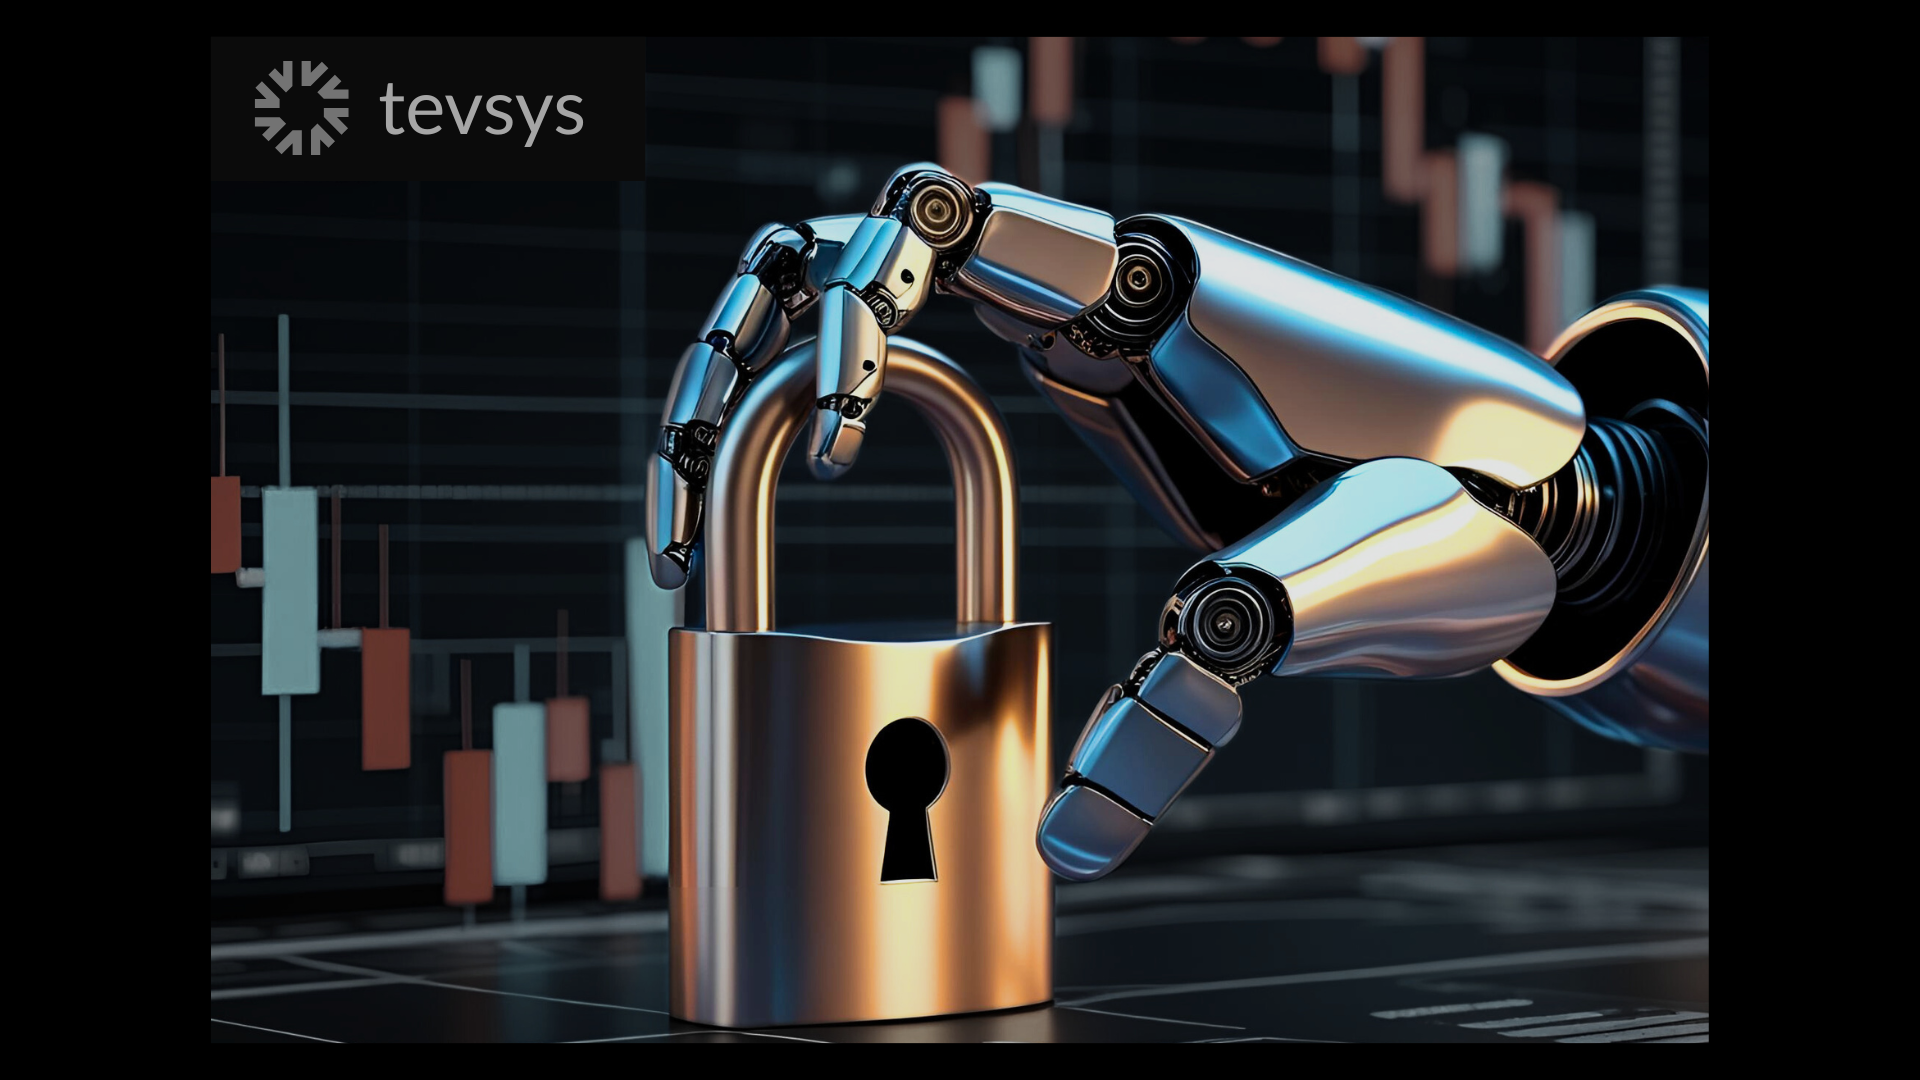
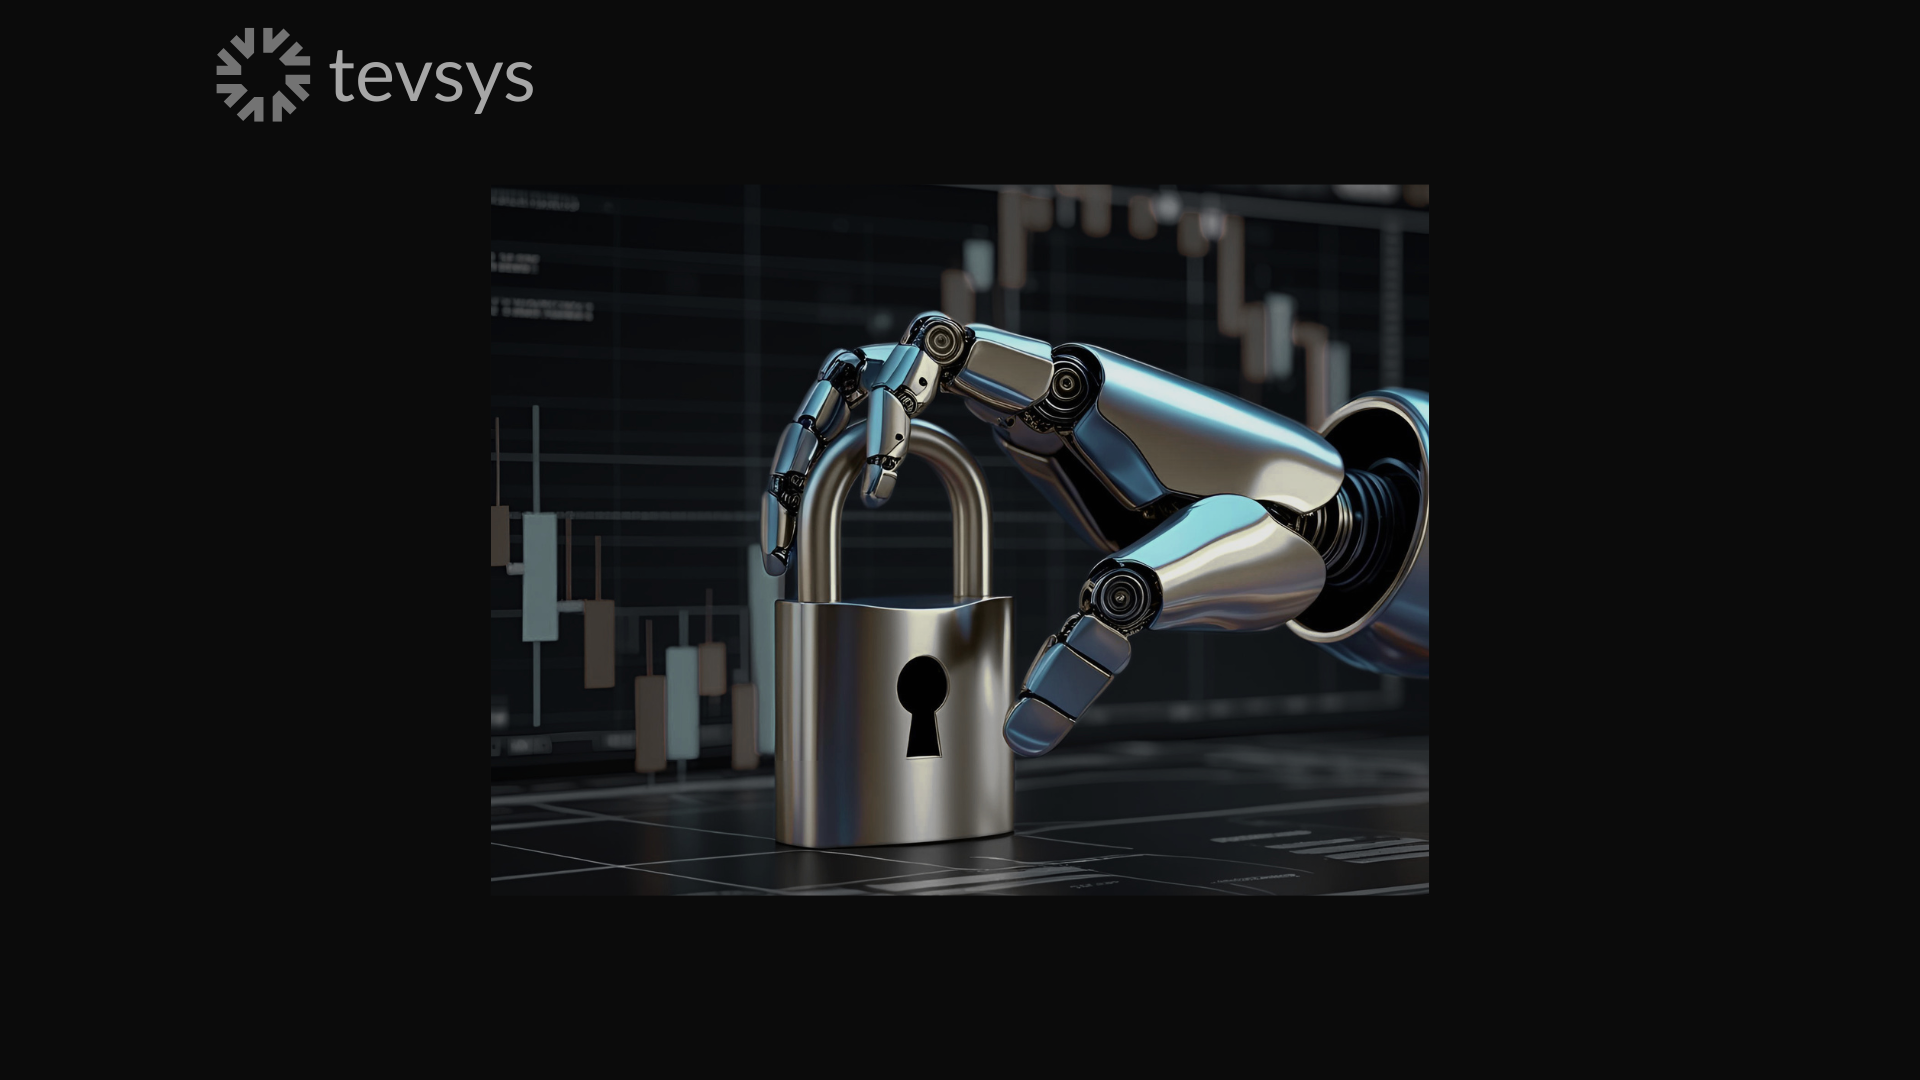
feat(web): hero mano+candado — velas neutras, PNG v2 + preload alineado

diff --git a/docs/CONTENIDO_WEB_TEVSYS_LANDING.md b/docs/CONTENIDO_WEB_TEVSYS_LANDING.md
@@ -35,7 +35,7 @@ Documento de contenido/copy actual para revisión de equipo.
 - **Botón:** `Descargar demo →` (ámbar marca)
 - **Disponibilidad:** `Disponible en MT5 · Próximamente: más plataformas`
 - **Stack home (tema oscuro):** fondo **`#000`** en `.tevsys-home-hero-stack` (coherencia con zona imagen cards); capas KITT sin cambio de filosofía.
-- **Imagen:** mano robótica + candado (`mano robotica central web.png` / WebP). Tratamiento CSS: filtros/viñeta/radio imagen; stack home con viñeta y un solo redondeo exterior (`CHANGELOG` + `HOME_HERO_CARDS_ITERACION_ABR2026.md`).
+- **Imagen:** mano robótica + candado (`mano robotica central web.png`; hero con `?v=2` tras arte velas neutras). Tratamiento CSS: filtros/viñeta/radio imagen; stack home con viñeta y un solo redondeo exterior (`CHANGELOG` + `HOME_HERO_CARDS_ITERACION_ABR2026.md`).
 - **Reflexión diseño histórica:** `REFLEXION_DISENO_HERO_FOOTER_MAR2026.md` (copy anterior); iteración actual: `HOME_HERO_CARDS_ITERACION_ABR2026.md`.
 - **Texto bajo imagen:** `Trading Edge Verification System`
 

diff --git a/docs/CHANGELOG-TEVSYS.md b/docs/CHANGELOG-TEVSYS.md
@@ -37,6 +37,16 @@ Registro completo de cambios aplicados en la landing de tevsys (base Odyssey The
 
 ---
 
+## Hero — imagen mano + candado (velas neutras, 19 abr 2026)
+
+**Motivo:** Nueva exportación Canva: gráfico de velas **sin rojo** (mejor armonía con paleta web). **Asset:** `public/mano robotica central web.png` — origen `Downloads/mano robotica central web.png`.
+
+**Código:** `HomeHeroSection.astro` — imagen hero con **`?v=2`**; eliminado `<source>` WebP (no había `mano-robotica-central-web.webp` en repo; evita 404). `BaseHead.astro` — preload LCP y meta imagen por defecto al **mismo PNG**.
+
+**Opcional:** `node scripts/optimize-images.js` regenera `mano-robotica-central-web.webp` y se puede volver a `<picture>` con `source` cuando el entorno tenga `sharp`.
+
+---
+
 ## Web — coherencia tipográfica, hero, cards, CTAs y micropáginas (19 abr 2026)
 
 **Objetivo:** Una sola lectura de producto (Inter + DM Sans solo en H1 home), negro unificado, CTAs demo idénticos, micropáginas alineadas y documentación al día con decisiones recientes.
